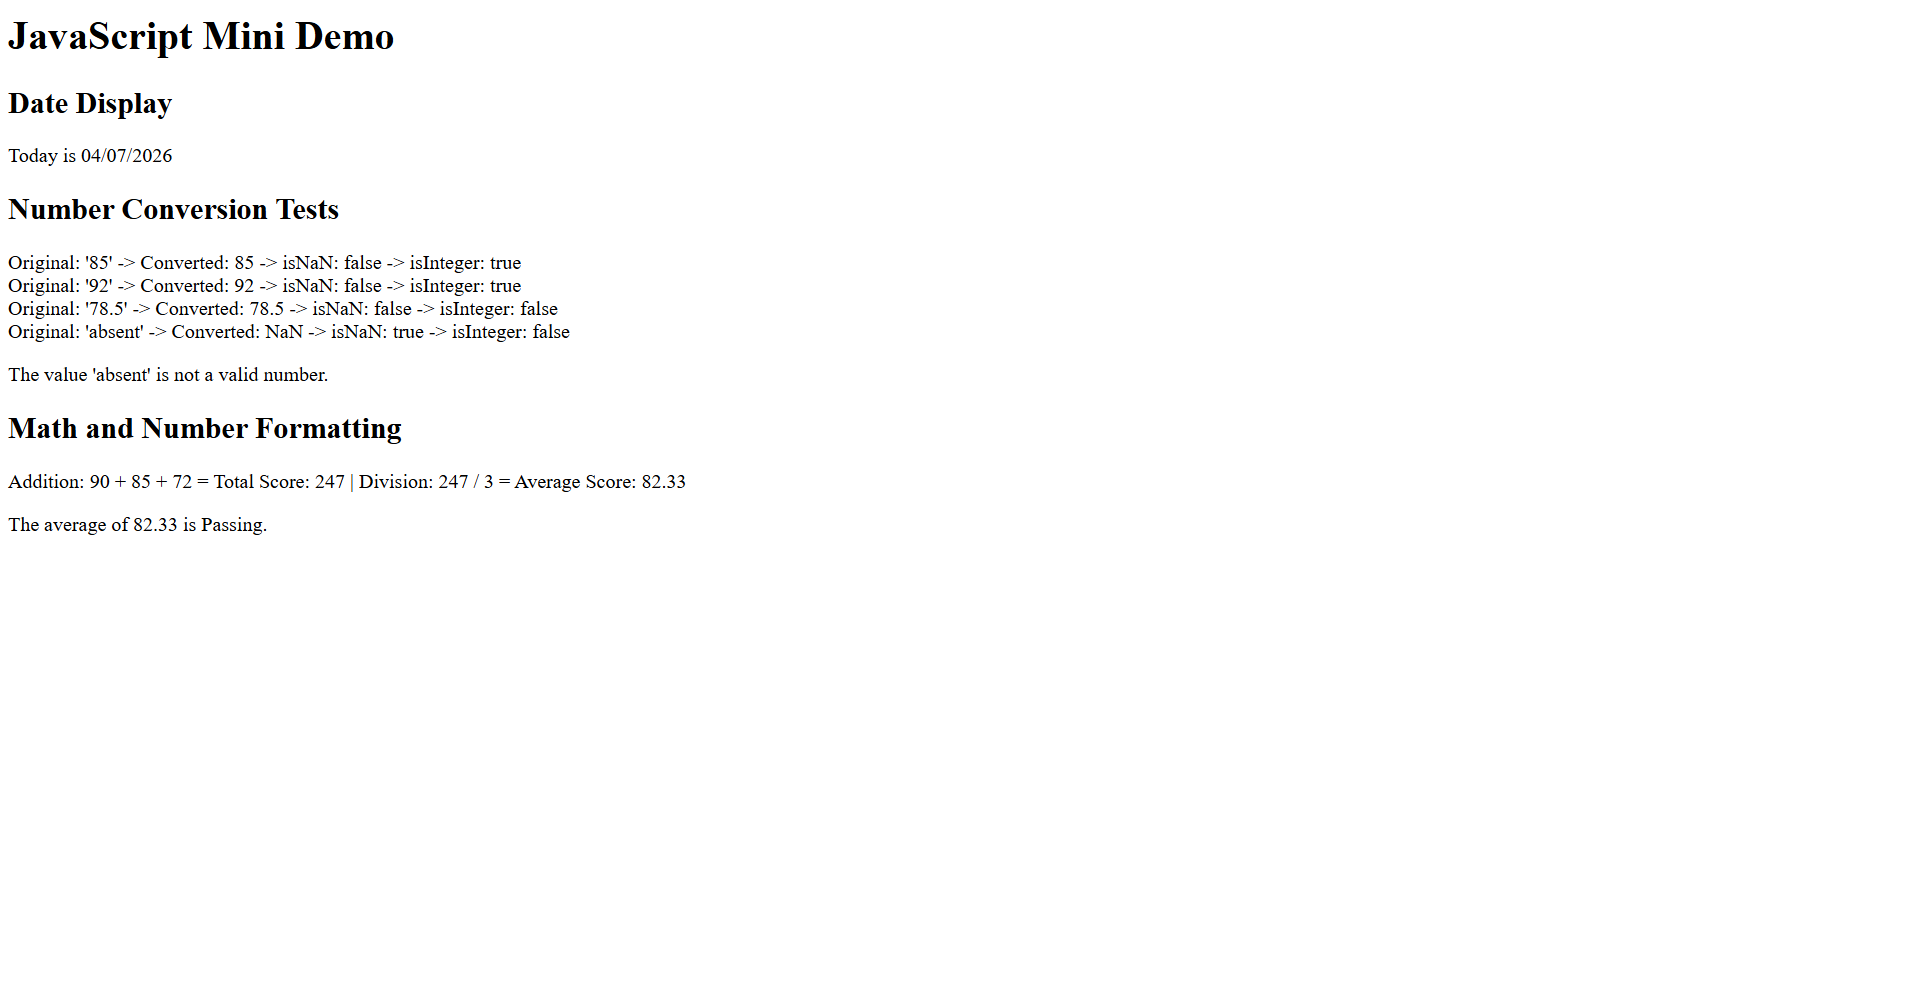
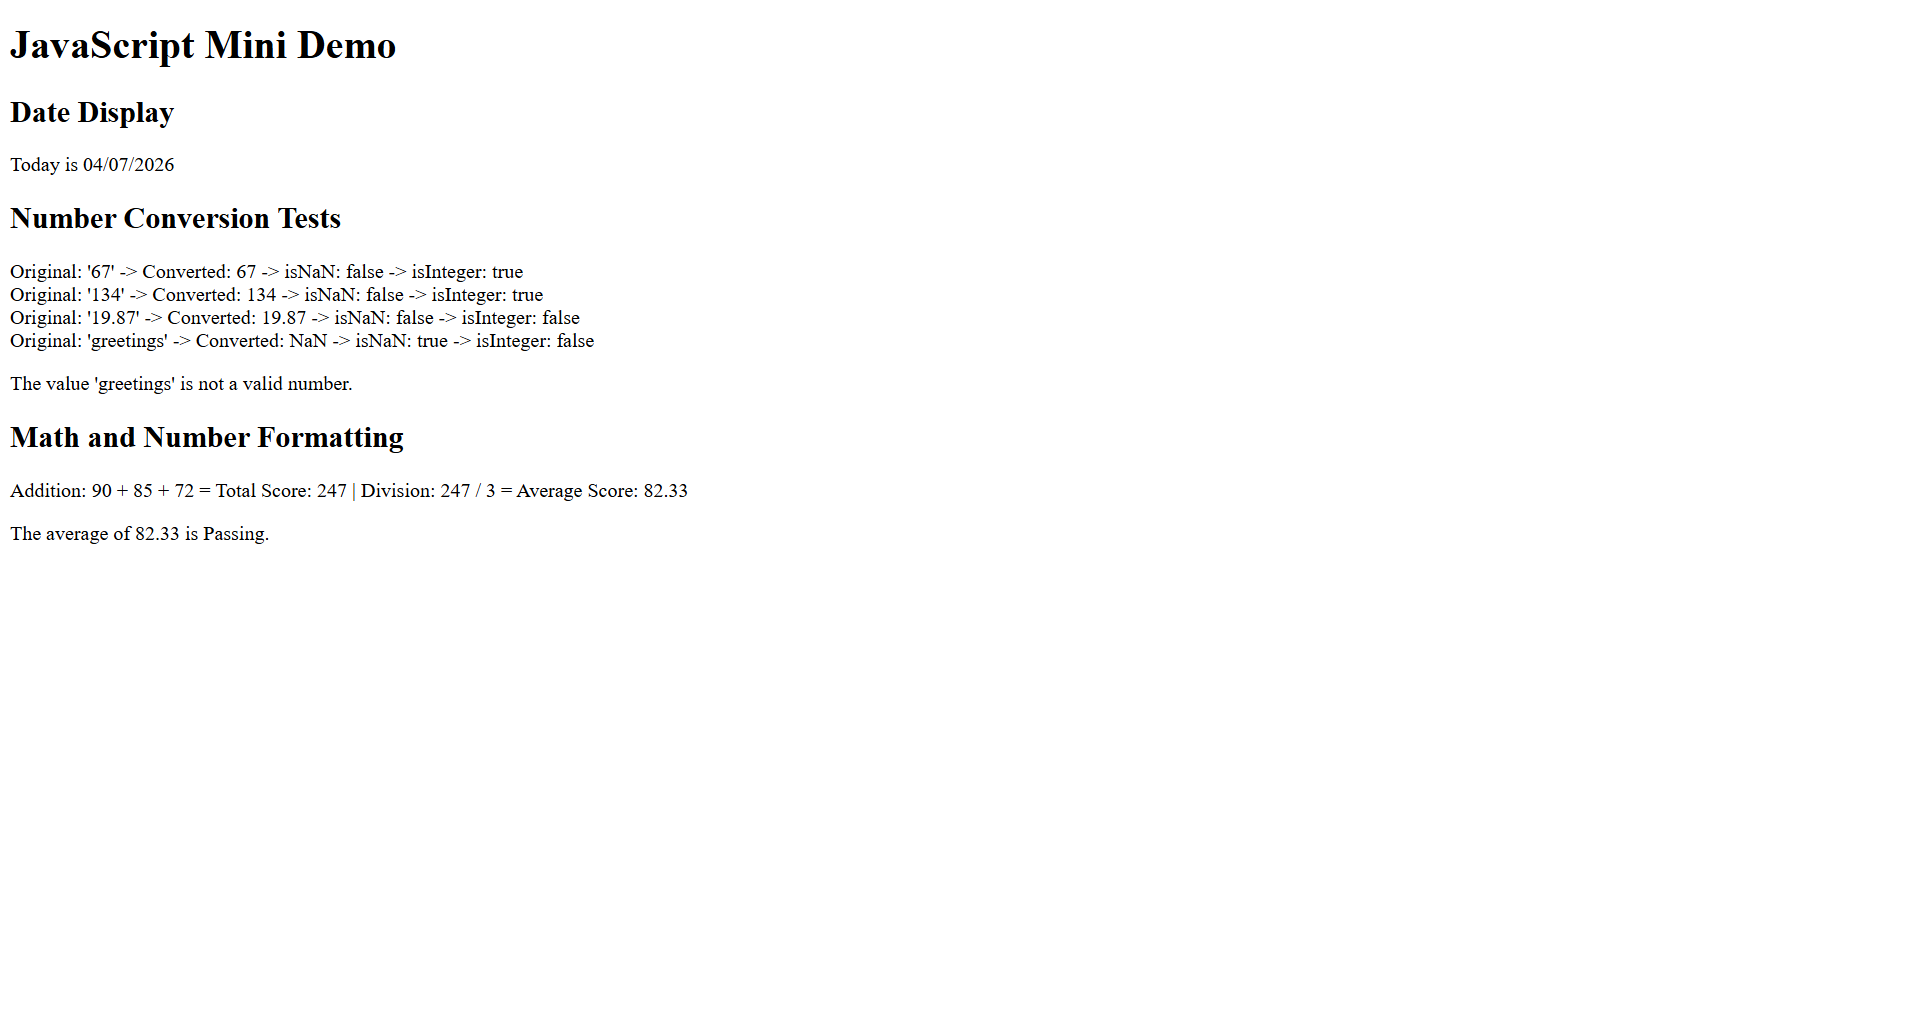
DONE

Changed region(s): [[0.0, 0.0924, 0.3089, 0.3386], [0.0, 0.3694, 0.3707, 0.5541], [0.0, 0.0, 0.2162, 0.0616]]

diff --git a/script.js b/script.js
@@ -8,10 +8,10 @@ let formattedDay = day < 10 ? "0" + day : day;
 
 document.getElementById("dateOutput").textContent = "Today is " + formattedMonth + "/" + formattedDay + "/" + year;
 
-let val1 = "85";
-let val2 = "92";
-let val3 = "78.5";
-let val4 = "absent";
+let val1 = "67";
+let val2 = "134";
+let val3 = "19.87";
+let val4 = "greetings";
 
 let num1 = Number(val1);
 let num2 = Number(val2);
